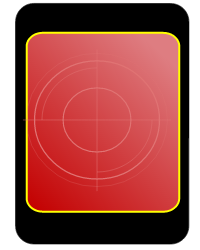
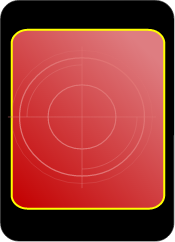
adicionando desenho de cartas

diff --git a/WarProject/src/warproject/TelaDeCartas.java b/WarProject/src/warproject/TelaDeCartas.java
@@ -17,6 +17,7 @@ public class TelaDeCartas extends javax.swing.JFrame {
      */
     public TelaDeCartas() {
         initComponents();
+        System.out.println(conteudo.getText());
     }
 
     /**
@@ -29,30 +30,55 @@ public class TelaDeCartas extends javax.swing.JFrame {
     private void initComponents() {
 
         jPanel1 = new javax.swing.JPanel();
-        jLabel1 = new javax.swing.JLabel();
+        tipoNome = new javax.swing.JLabel();
+        conteudo = new javax.swing.JTextArea();
+        background = new javax.swing.JLabel();
 
-        setDefaultCloseOperation(javax.swing.WindowConstants.EXIT_ON_CLOSE);
-        getContentPane().setLayout(null);
+        setDefaultCloseOperation(javax.swing.WindowConstants.DISPOSE_ON_CLOSE);
+        setMaximumSize(new java.awt.Dimension(170, 260));
+        setMinimumSize(new java.awt.Dimension(167, 257));
+        setModalExclusionType(null);
+        setResizable(false);
 
-        jLabel1.setIcon(new javax.swing.ImageIcon(getClass().getResource("/warproject/cartaWar.png"))); // NOI18N
+        jPanel1.setLayout(null);
 
-        javax.swing.GroupLayout jPanel1Layout = new javax.swing.GroupLayout(jPanel1);
-        jPanel1.setLayout(jPanel1Layout);
-        jPanel1Layout.setHorizontalGroup(
-            jPanel1Layout.createParallelGroup(javax.swing.GroupLayout.Alignment.LEADING)
-            .addGroup(jPanel1Layout.createSequentialGroup()
-                .addComponent(jLabel1, javax.swing.GroupLayout.PREFERRED_SIZE, 190, javax.swing.GroupLayout.PREFERRED_SIZE)
-                .addGap(0, 10, Short.MAX_VALUE))
+        tipoNome.setBackground(new java.awt.Color(255, 255, 255));
+        tipoNome.setFont(new java.awt.Font("Tahoma", 1, 16)); // NOI18N
+        tipoNome.setForeground(new java.awt.Color(255, 255, 255));
+        tipoNome.setText("Território");
+        jPanel1.add(tipoNome);
+        tipoNome.setBounds(50, 0, 79, 30);
+
+        conteudo.setEditable(false);
+        conteudo.setColumns(20);
+        conteudo.setFont(new java.awt.Font("Tahoma", 0, 11)); // NOI18N
+        conteudo.setForeground(new java.awt.Color(255, 255, 255));
+        conteudo.setLineWrap(true);
+        conteudo.setRows(5);
+        conteudo.setText("CONQUISTAR NA \nTOTALIDADE A\nAMERICA DO SUL\nA ASIA \nE MAIS UM CONTINENTE\nA SUA ESCOLHA.");
+        conteudo.setDisabledTextColor(new java.awt.Color(255, 255, 255));
+        conteudo.setEnabled(false);
+        conteudo.setOpaque(false);
+        jPanel1.add(conteudo);
+        conteudo.setBounds(20, 40, 140, 150);
+
+        background.setForeground(new java.awt.Color(255, 255, 255));
+        background.setIcon(new javax.swing.ImageIcon(getClass().getResource("/warproject/cartawar.png"))); // NOI18N
+        background.setMinimumSize(new java.awt.Dimension(175, 240));
+        background.setName(""); // NOI18N
+        jPanel1.add(background);
+        background.setBounds(0, 0, 175, 242);
+
+        javax.swing.GroupLayout layout = new javax.swing.GroupLayout(getContentPane());
+        getContentPane().setLayout(layout);
+        layout.setHorizontalGroup(
+            layout.createParallelGroup(javax.swing.GroupLayout.Alignment.LEADING)
+            .addComponent(jPanel1, javax.swing.GroupLayout.DEFAULT_SIZE, 180, Short.MAX_VALUE)
         );
-        jPanel1Layout.setVerticalGroup(
-            jPanel1Layout.createParallelGroup(javax.swing.GroupLayout.Alignment.LEADING)
-            .addGroup(javax.swing.GroupLayout.Alignment.TRAILING, jPanel1Layout.createSequentialGroup()
-                .addComponent(jLabel1)
-                .addGap(0, 0, Short.MAX_VALUE))
+        layout.setVerticalGroup(
+            layout.createParallelGroup(javax.swing.GroupLayout.Alignment.LEADING)
+            .addComponent(jPanel1, javax.swing.GroupLayout.DEFAULT_SIZE, 246, Short.MAX_VALUE)
         );
-
-        getContentPane().add(jPanel1);
-        jPanel1.setBounds(0, 0, 200, 250);
 
         pack();
     }// </editor-fold>//GEN-END:initComponents
@@ -93,7 +119,9 @@ public class TelaDeCartas extends javax.swing.JFrame {
     }
 
     // Variables declaration - do not modify//GEN-BEGIN:variables
-    private javax.swing.JLabel jLabel1;
+    private javax.swing.JLabel background;
+    private javax.swing.JTextArea conteudo;
     private javax.swing.JPanel jPanel1;
+    private javax.swing.JLabel tipoNome;
     // End of variables declaration//GEN-END:variables
 }
